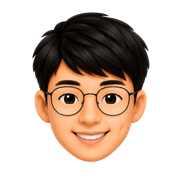
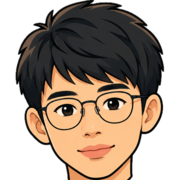
chore: update portfolio assets and lightbox

diff --git a/app/components/figma-ui/TimelinePhotoLightbox.tsx b/app/components/figma-ui/TimelinePhotoLightbox.tsx
@@ -3,7 +3,6 @@
 import React, { useEffect } from "react";
 import { motion, AnimatePresence, useReducedMotion } from "motion/react";
 import { X } from "lucide-react";
-import { cn } from "../../lib/utils";
 
 interface TimelinePhoto {
   id: string;
@@ -51,9 +50,7 @@ export function TimelinePhotoLightbox({
   }, [photo, onClose]);
 
   const isWide = photo?.imageAspectClassName?.includes("16/10");
-  const cardWidth = isWide
-    ? "w-[min(88vw,760px)]"
-    : "w-[min(82vw,460px)] sm:w-[min(72vw,520px)]";
+  const imageMaxWidth = isWide ? "min(88vw, 760px)" : "min(82vw, 520px)";
 
   return (
     <AnimatePresence>
@@ -86,10 +83,7 @@ export function TimelinePhotoLightbox({
 
           <motion.div
             key={photo.id}
-            className={cn(
-              "relative z-10 bg-white p-3 pb-12 shadow-[0_18px_44px_rgba(28,33,42,0.22),0_8px_18px_rgba(28,33,42,0.12)] transform-gpu will-change-transform [contain:layout_paint_style] sm:p-4 sm:pb-16",
-              cardWidth
-            )}
+            className="relative z-10 inline-flex max-w-[calc(100vw-2rem)] flex-col items-center bg-white p-3 pb-12 shadow-[0_18px_44px_rgba(28,33,42,0.22),0_8px_18px_rgba(28,33,42,0.12)] transform-gpu will-change-transform [contain:layout_paint_style] sm:p-4 sm:pb-16"
             initial={
               shouldReduceMotion
                 ? { opacity: 0 }
@@ -129,18 +123,14 @@ export function TimelinePhotoLightbox({
             }}
             onClick={(event) => event.stopPropagation()}
           >
-            <div
-              className={cn(
-                "relative max-h-[72vh] overflow-hidden bg-[#f3f1eb]",
-                photo.imageAspectClassName || "aspect-[3/4]"
-              )}
-            >
+            <div className="relative max-w-full overflow-hidden bg-[#f3f1eb]">
               <img
                 src={photo.imageUrl}
                 alt={photo.title}
                 decoding="async"
                 draggable={false}
-                className="h-full w-full select-none object-contain"
+                className="h-auto max-h-[72vh] w-auto select-none object-contain"
+                style={{ maxWidth: imageMaxWidth }}
               />
             </div>
 

diff --git a/app/layout.tsx b/app/layout.tsx
@@ -37,6 +37,7 @@ export const metadata: Metadata = {
   category: 'portfolio',
   icons: {
     icon: [
+      { url: '/favicon.ico', sizes: 'any' },
       { url: '/favicon-48x48.png', sizes: '48x48', type: 'image/png' },
       { url: '/icon.png', sizes: '512x512', type: 'image/png' },
     ],

diff --git a/TODO.md b/TODO.md
@@ -1,0 +1,66 @@
+# 个人作品集网站优化清单 (TODO)
+
+这个清单列出了让你的手帐风格作品集更加完整和专业的优化建议。你可以按照这个清单一个个板块来补充。
+
+## 🌟 高优先级（强烈建议优先补充）
+
+### 1. 项目展示板块 (Projects Section)
+作为 Frontend Engineer，这是最重要的展示区域。
+- [ ] **设计卡片样式**：设计与手帐风格匹配的项目卡片（可以继续使用拍立得、相片或者剪报的样式）。
+- [ ] **准备项目数据**：
+  - 项目名称
+  - 简短描述（解决了什么问题）
+  - 技术栈标签（如 React, Next.js, Tailwind 等）
+  - 链接（在线演示 Demo 链接、GitHub 源码链接）
+  - 预览图或动图（展示项目界面）
+- [ ] **添加到主页**：在 About 或 Timeline 之后，Music 之前添加这个板块。
+
+### 2. 技能图谱 (Skills Section)
+让访客/HR快速了解你的技术栈。
+- [ ] **分类技能**：
+  - 前端框架/库：React, Next.js, Vue 等
+  - 语言：JavaScript, TypeScript, HTML, CSS 等
+  - 工具/设计：Git, Figma 等
+- [ ] **设计展示方式**：可以用进度条、手写便签列表、或者散落的贴纸（Sticker）来展示。
+
+### 3. 工作/项目经历详情 (Experience Details)
+充实目前的 Timeline 板块。
+- [ ] **补充具体经历**：
+  - 具体公司/团队名称
+  - 职位名称（如 Frontend Engineer）
+  - 主要职责和业务成就（用数据说话，比如“优化了xx页面的加载速度提升了xx%”）
+- [ ] **建立简历下载入口**：提供一个 PDF 版本的简历下载按钮（可以用曲别针夹着一份文档的设计）。
+
+---
+
+## 📝 中优先级（丰富内容与提升体验）
+
+### 4. 博客入口 (Blog Section)
+README 中提到支持 MDX 博客，可以把它在首页展示出来。
+- [ ] **精选文章预览**：在首页展示最近的 2-3 篇博客文章。
+- [ ] **文章卡片设计**：使用现有的 `NotebookPaper` 组件来展示文章摘要。
+- [ ] **完善博客列表页**：确保点击后能进入完整的博客列表和阅读页面。
+
+### 5. 完善社交链接 (Social Links)
+丰富 Footer/Contact 板块的联系方式。
+- [ ] 添加 LinkedIn 链接（对求职非常有帮助）。
+- [ ] 添加 Twitter/X, CodePen, 或其他相关技术社区链接。
+- [ ] 增加微信/微信公众号的二维码（可选，如果是针对国内用户）。
+
+### 6. 完善关于我 (About Me)
+- [ ] 补充一段更详细的自我介绍（个人理念、职业目标、兴趣爱好等）。
+- [ ] 如果有同事或客户的评价（Testimonials），可以用便利贴的形式贴在墙上。
+
+---
+
+## 🛠 低优先级（细节打磨与功能完善）
+
+### 7. 网站交互与功能
+- [ ] **导航栏更新**：补充新增加板块的锚点链接（如 Projects, Skills, Blog）。
+- [ ] **加载状态 (Loading)**：添加首屏加载动画、图片的懒加载过渡效果。
+- [ ] **主题切换 (Dark Mode)**：实现 README 中提到的明暗主题切换，设计一套暗色系的手帐皮肤。
+- [ ] **多语言切换 (i18n)**：如果面向国际市场，支持中英文一键切换。
+
+### 8. 响应式细节优化
+- [ ] 检查并优化新建板块在移动端的显示效果。
+- [ ] 确保手写字体和贴纸在小屏幕上不会重叠或遮挡重要文本。
